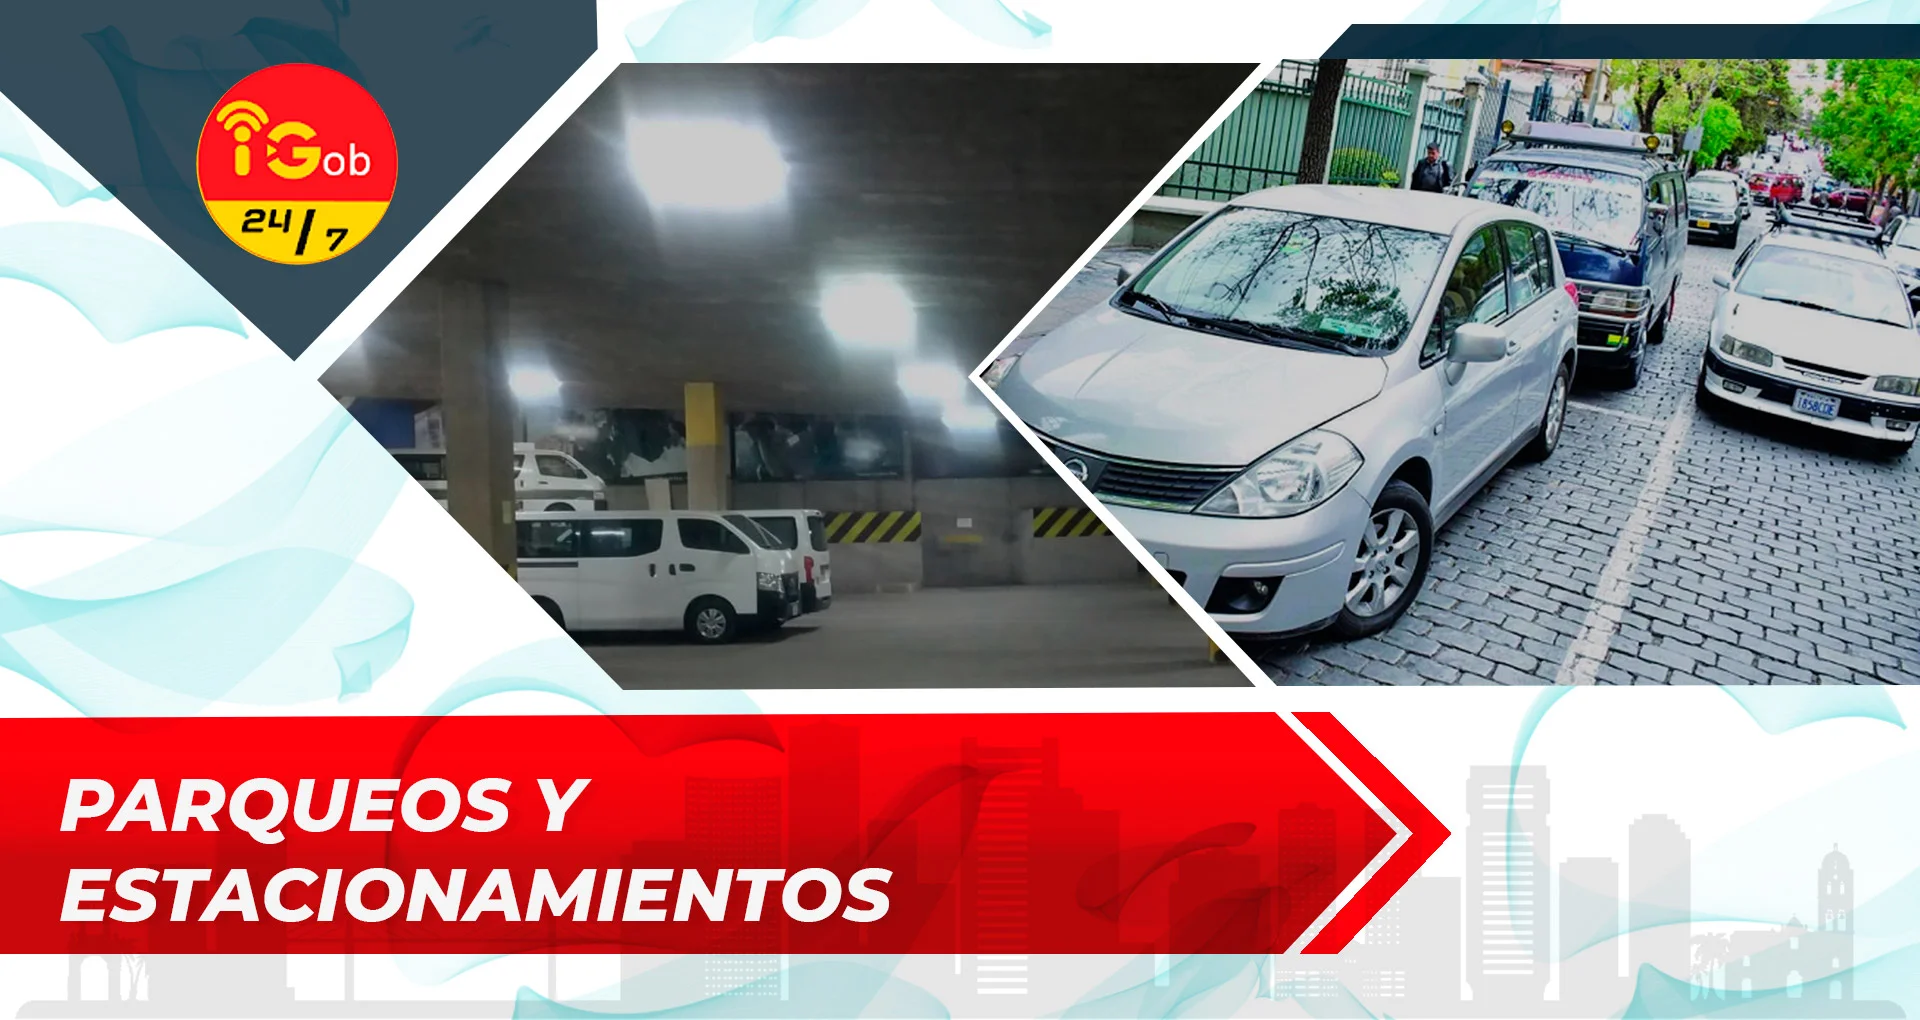
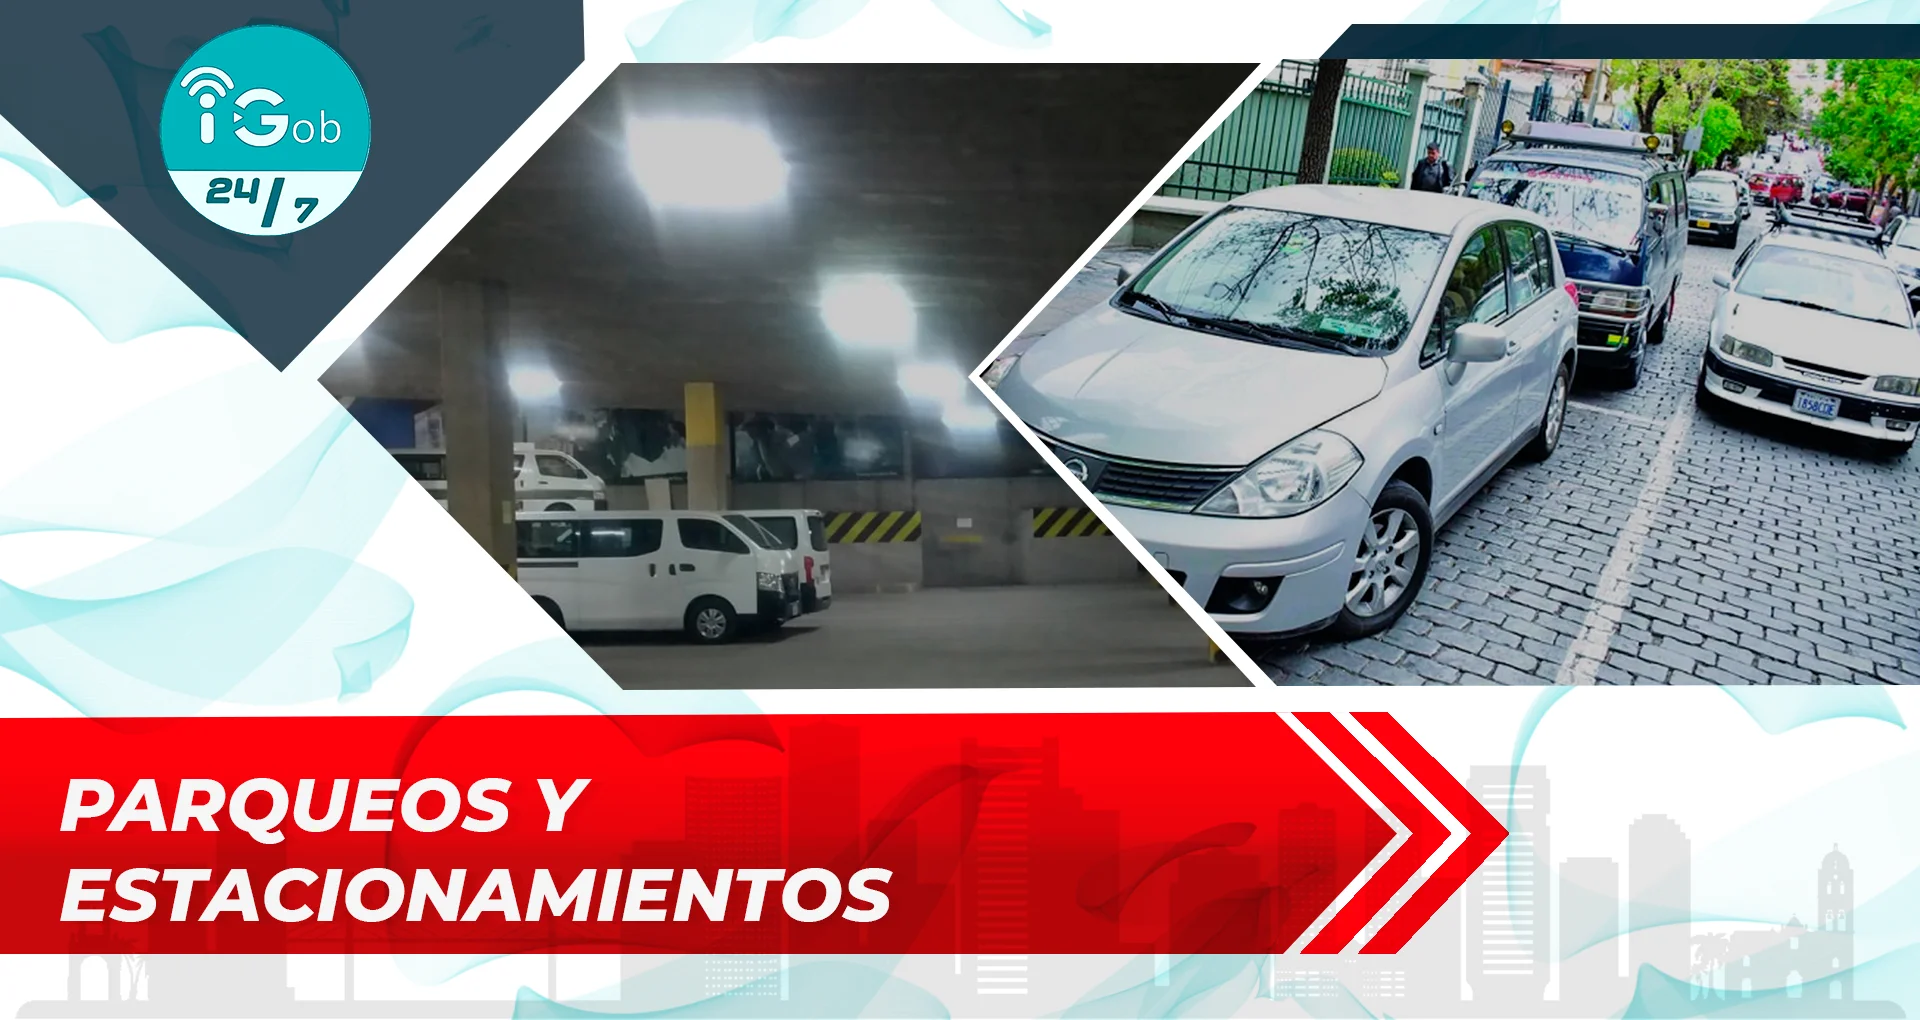
Ajuste de archivos AngularFrontEnd/app/libs/css_one/styleinspinia.min.css, AngularFrontEnd/structureIgob/css/style.css, cambio de iconos e imágenes

diff --git a/AngularFrontEnd/app/libs/css_one/styleinspinia.min.css b/AngularFrontEnd/app/libs/css_one/styleinspinia.min.css
@@ -3,15 +3,15 @@
   }
   
   ::-webkit-scrollbar-track {
-    background: #f1f1f1;
+	background: #f1f1f1;
   }
   
   ::-webkit-scrollbar-thumb {
-    background: #FBCC00;
+	background: #00b3ba;
   }
   
   ::-webkit-scrollbar-thumb:hover {
-    background: #ff9d03;
+	background: #006e80;
   }
   ::-moz-selection {
     background: #000;

diff --git a/AngularFrontEnd/structureIgob/css/style.css b/AngularFrontEnd/structureIgob/css/style.css
@@ -1930,8 +1930,8 @@ body:after {
             visibility: visible;
           }
           .btn-secondary:not(:disabled):not(.disabled):active {
-            background-color:#ffc107;
-            border-color: #ffb103;
+            background-color: #006e80;
+            border-color: #eefeff;
           }
 
 
